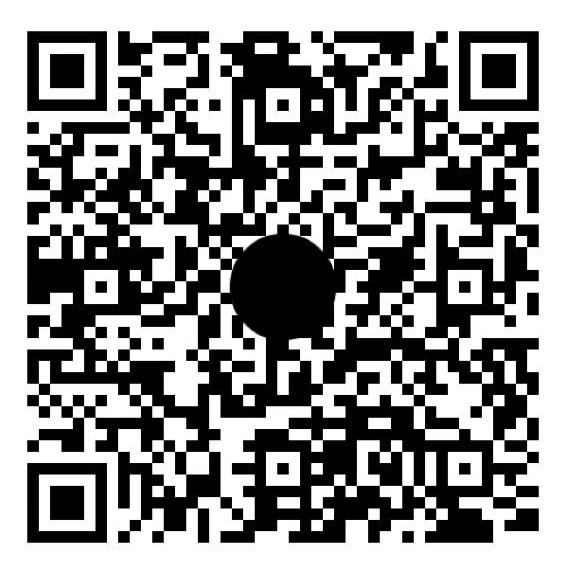
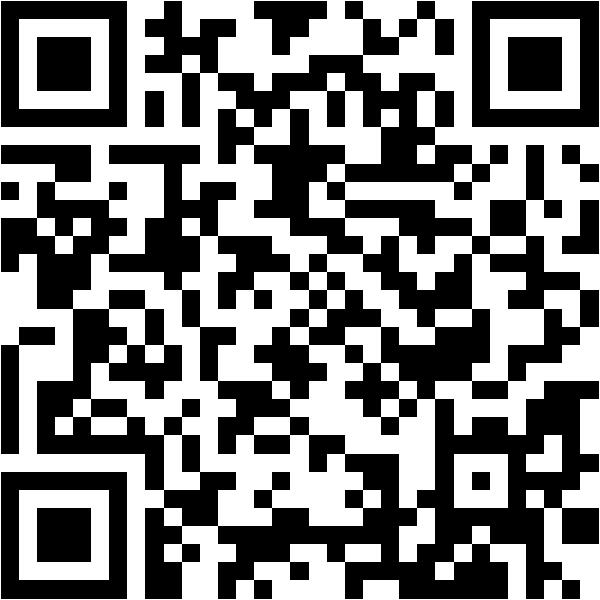
fix(payment): update UPI ID to videobot@jio and regenerate scannable QR code

diff --git a/config.py b/config.py
@@ -14,7 +14,7 @@ RAZORPAY_WEBHOOK_SECRET = os.getenv("RAZORPAY_WEBHOOK_SECRET", "")
 RAZORPAY_PAYMENT_URL = os.getenv("RAZORPAY_PAYMENT_URL", "https://rzp.io/rzp/1tGAGsc").strip()
 
 # ─── UPI & Direct QR Settings ───────────────────────────────
-UPI_ID = os.getenv("UPI_ID", "8303880705@jio").strip()
+UPI_ID = os.getenv("UPI_ID", "videobot@jio").strip()
 UPI_NAME = os.getenv("UPI_NAME", "Saif Ansari").strip()
 UPI_QR_IMAGE = os.getenv("UPI_QR_IMAGE", "web/static/upi_qr.jpg").strip()
 
